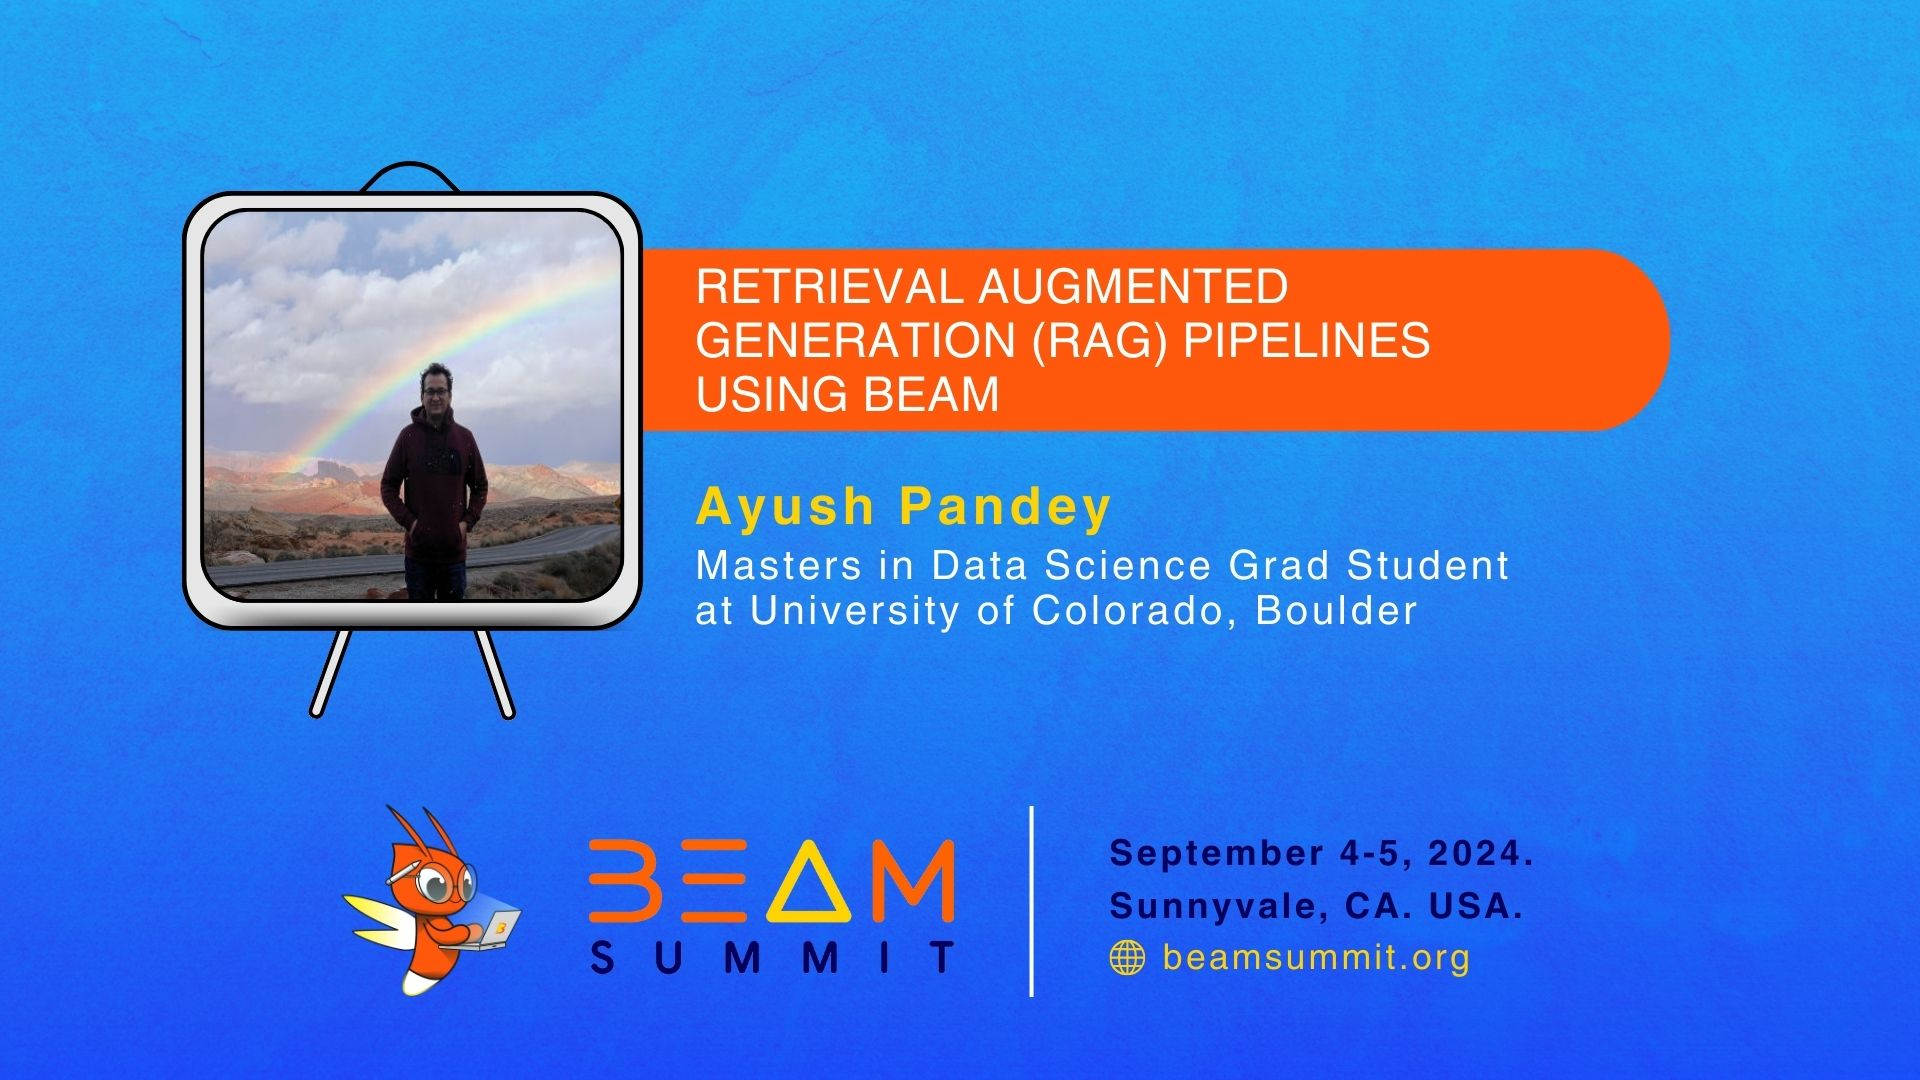
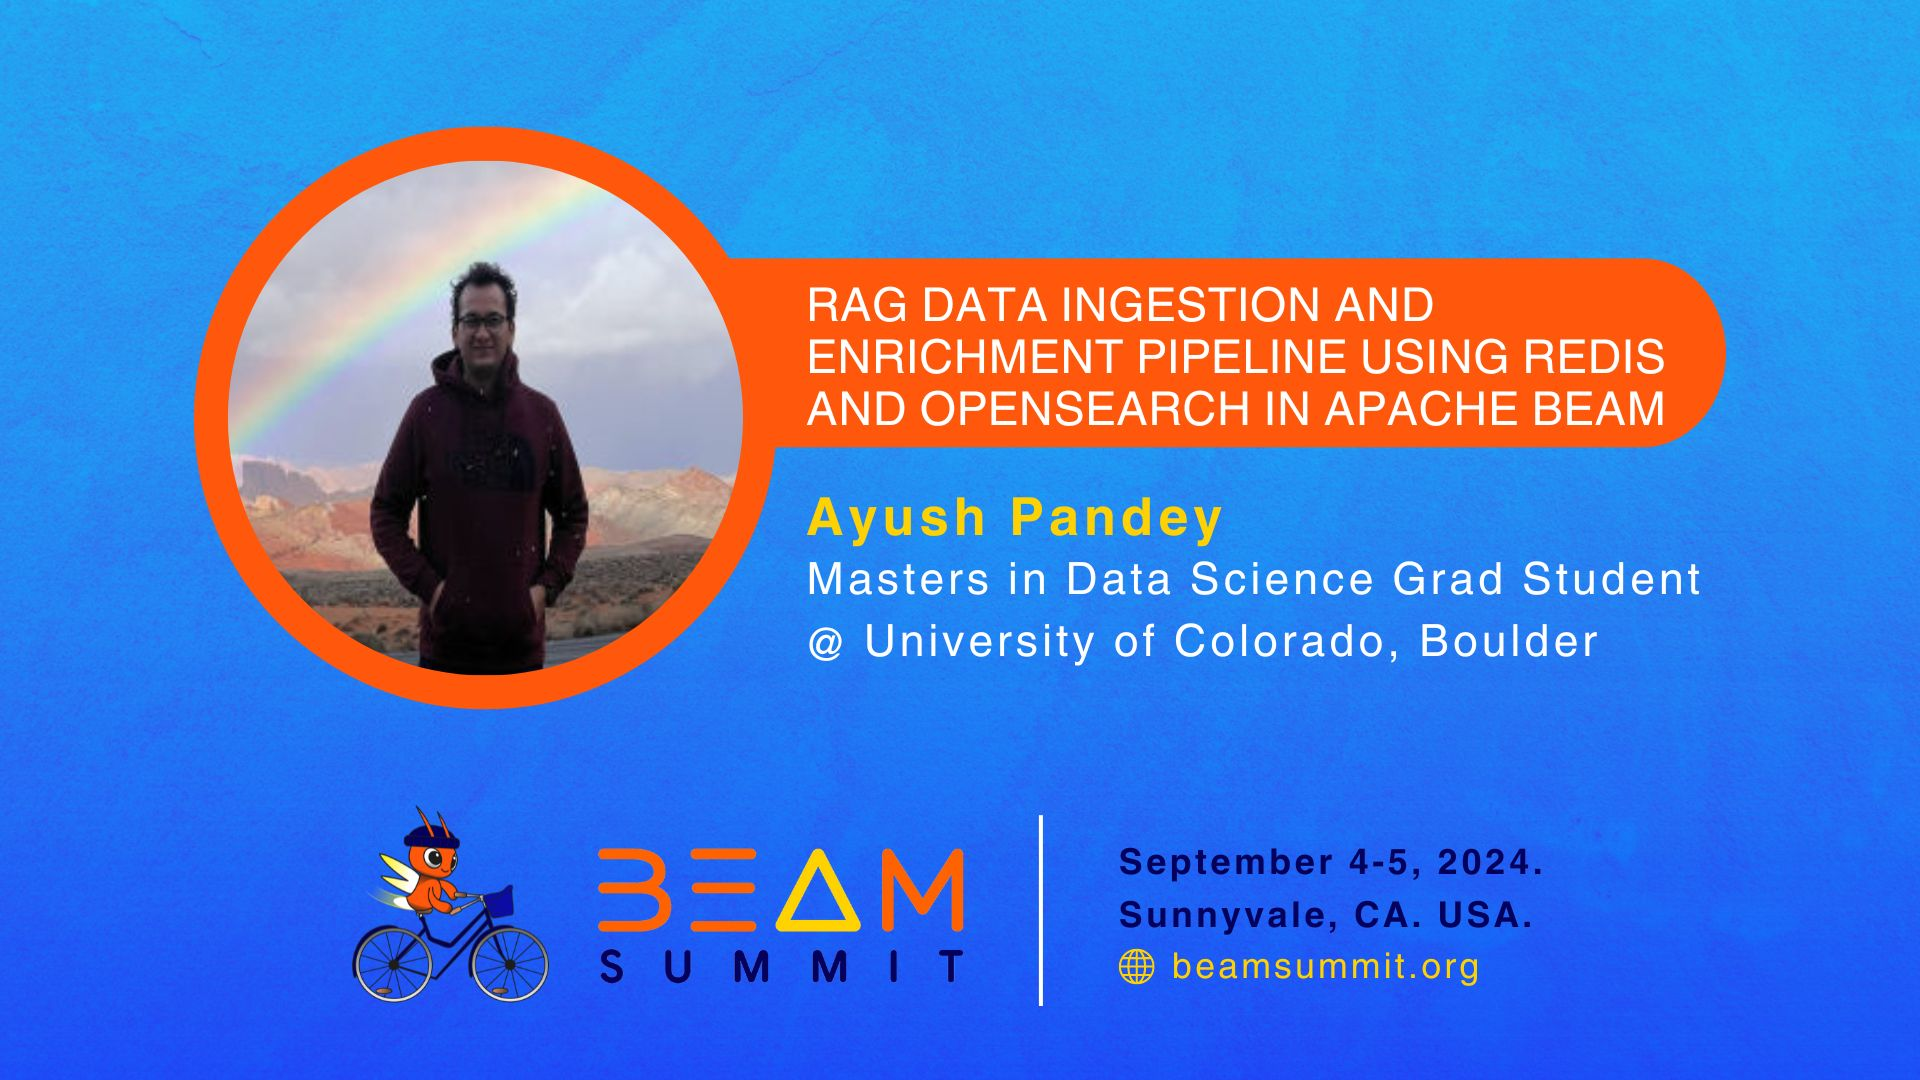
Ayush

Changed region(s): [[0.0938, 0.0917, 0.9062, 0.6722], [0.1562, 0.7333, 0.5, 0.9472], [0.5312, 0.7333, 0.8125, 0.9167]]

diff --git a/content/sessions/2024/60-rag-pipelines.md b/content/sessions/2024/60-rag-pipelines.md
@@ -1,5 +1,5 @@
 ---
-title: "Retrieval Augmented Generation (RAG) Pipelines using Beam"
+title: "RAG Data Ingestion and Enrichment Pipeline using Redis and OpenSearch Vector Database in Apache Beam"
 slug: rag-pipelines
 speakers:
  - Ayush Pandey
@@ -16,4 +16,4 @@ images:
  - /images/sessions/2024/rag-pipelines.jpg 
 ---
 
-Building out Apache Beam pipelines for Retrieval Augmented Generation (RAG) Applications to help Enterprises seamlessly leverage Large Language Models through Beam's model.
+Building out data ingestion and enrichment pipeline for a Retrieval Augmented Generation (RAG) system using Apache Beam. The pipeline built a knowledge base by ingesting text data into vector databases, specifically utilizing Redis and OpenSearch for efficient semantic search and data retrieval. These databases stored vectorized representations of text chunks, allowing the system to enhance user queries by matching them with relevant text fragments. The design of the pipeline ensured scalable and effective RAG operations, leveraging the strengths of Redis and OpenSearch in vector-based search.
